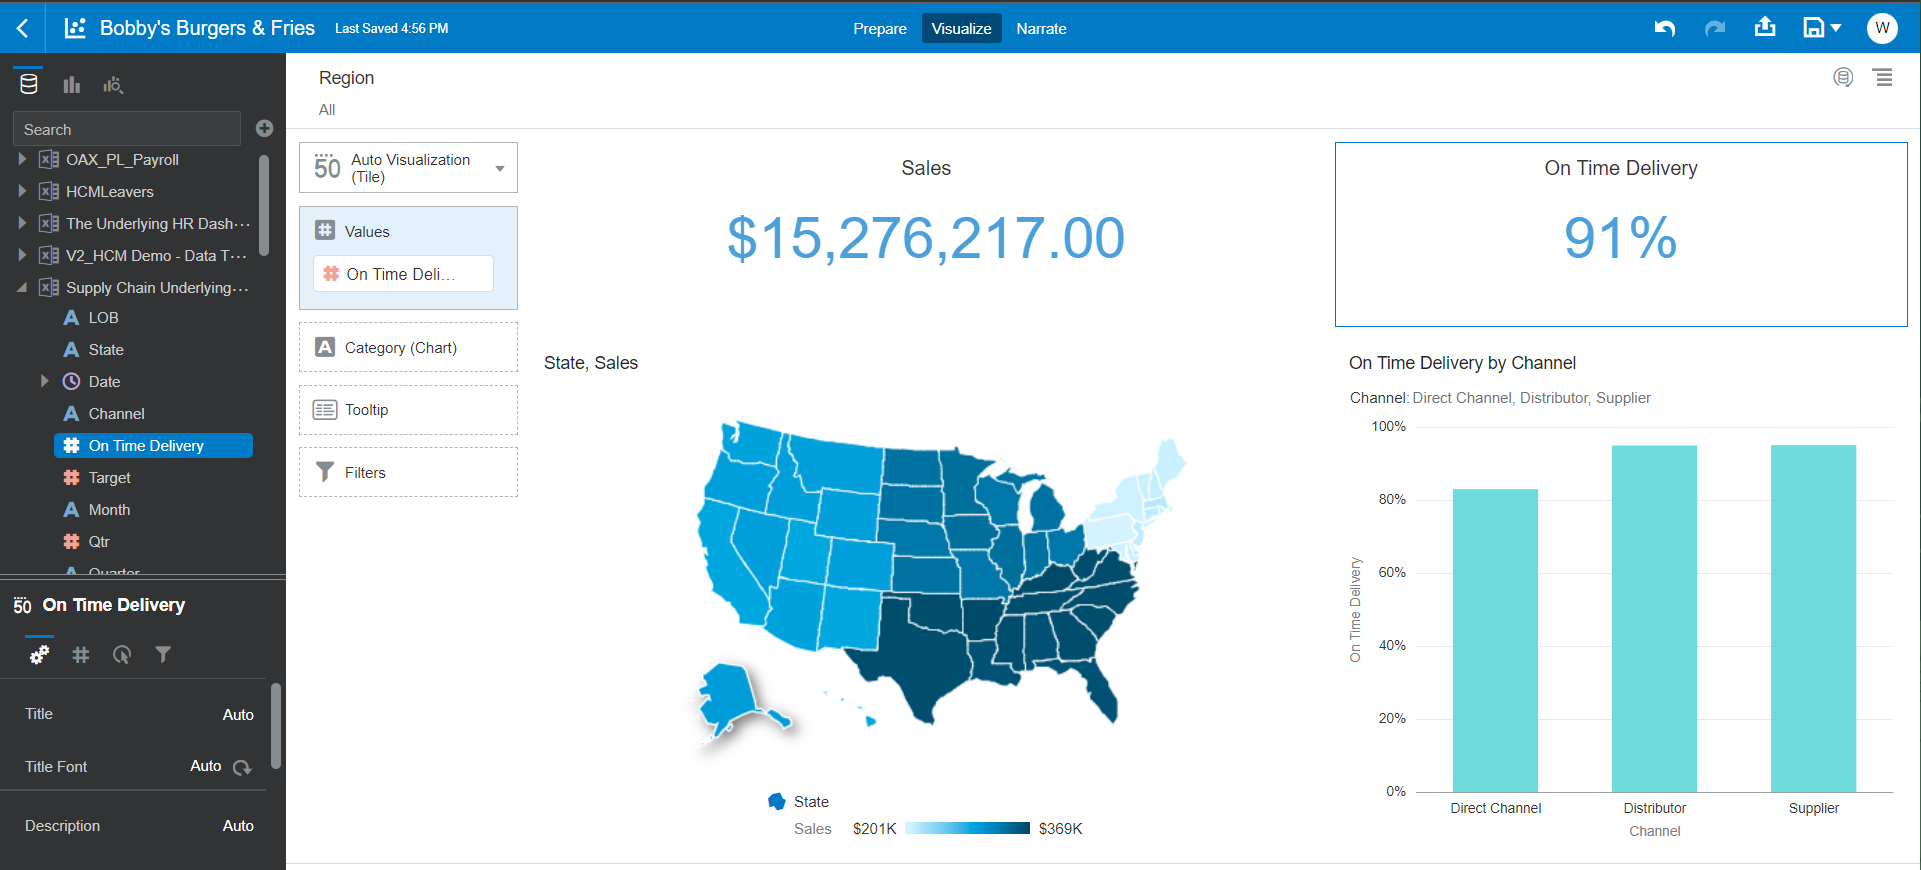
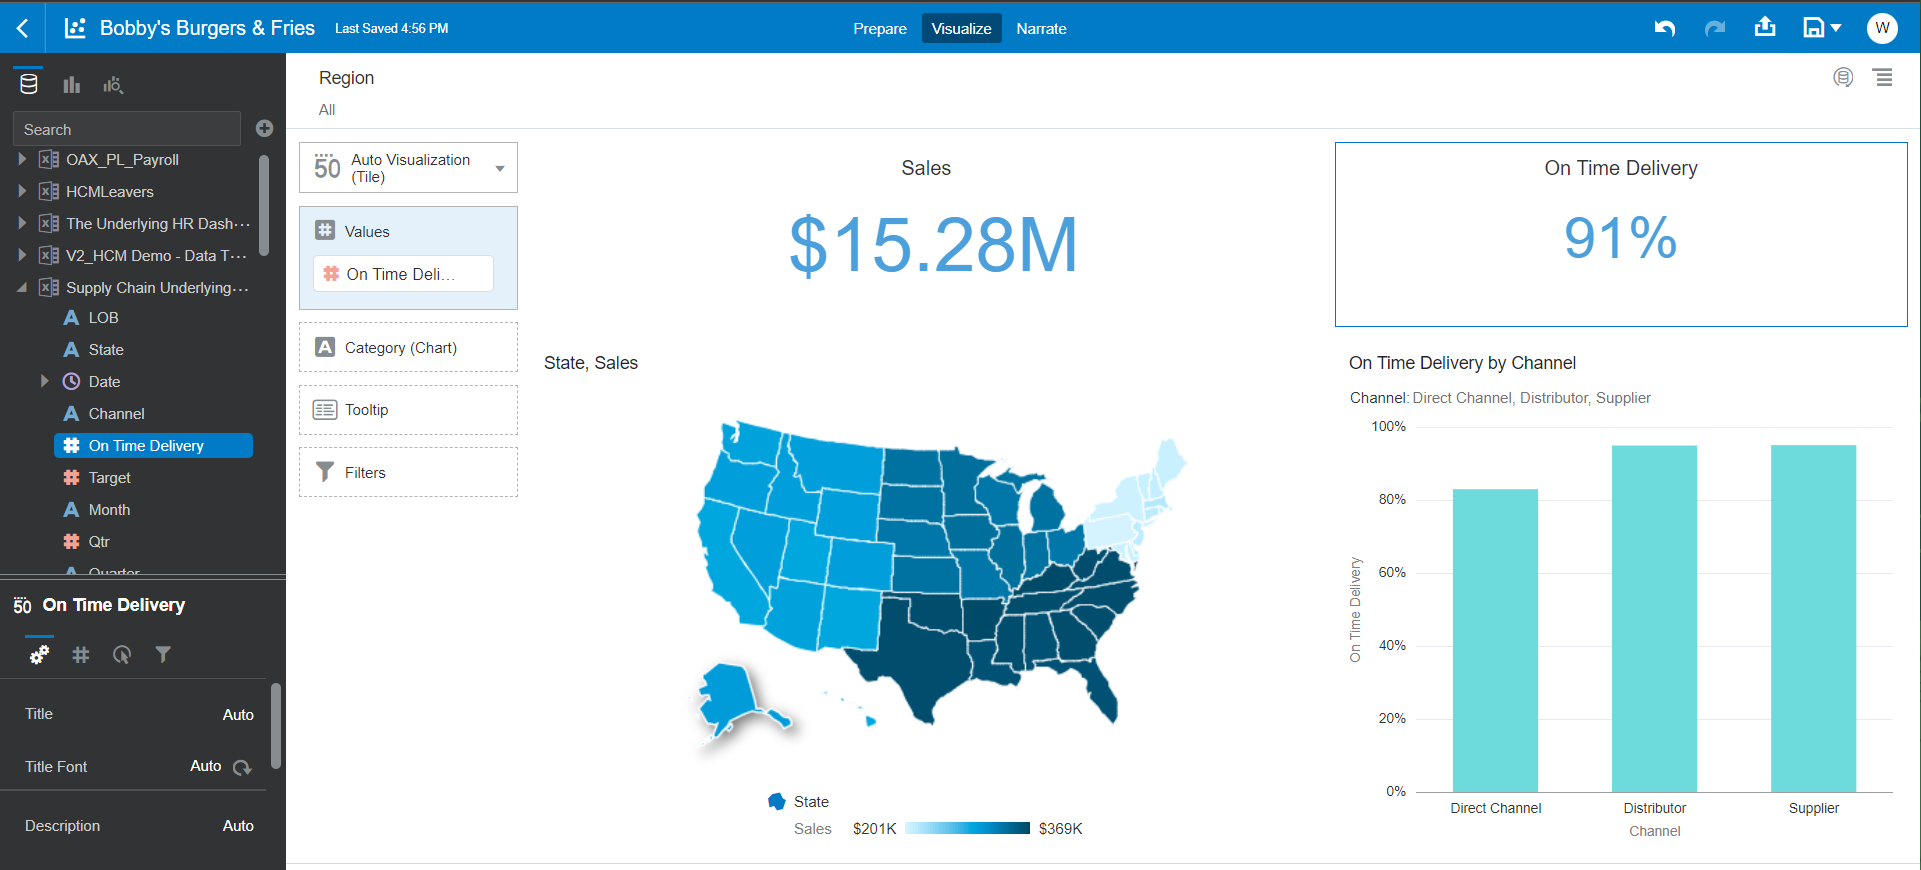
kl pic format updates

Changed region(s): [[0.3748, 0.2483, 0.5934, 0.3103]]

diff --git a/Retail/create-main-dashboard/create-main-dashboard.md b/Retail/create-main-dashboard/create-main-dashboard.md
@@ -79,13 +79,18 @@ Right away we can see that the north east region sales is severely behind the re
     ![drag and drop sales above visual](./images/drag-and-drop-sales.png " ")
     ![sales card](./images/sales-card.png " ")
 
-6. Now we are going to create our second card. Open the Supply Chain Underlying Dashboard Data and
+6. Now we are going to format our value using the properties box (in the bottom right of the screen). **Select** select the Values '#' tab and we are going to change from auto to currency as well as turn on abbreviate by selecting it.
+
+  ![formatting the currency](./images/formatting-the-currency.png " ")
+  ![abbreviate the currency](./images/abbreviate-the-currency.png " ")
+
+7. Now we are going to create our second card. Open the Supply Chain Underlying Dashboard Data and
     - **Control select** "Supply Chain Underlying Dashboard Data - On Time Delivery" and "Supply Chain Underlying Dashboard Data - Channel".
     - **Right click**, select "Pick Visualization"
 
     ![create supply chain card](./images/supply-chain-card.png " ")
 
-7. **Select** "Stacked Bar".
+8. **Select** "Stacked Bar".
 
     ![pick stacked bar chart](./images/stacked-bar.png " ")
 
@@ -121,7 +126,7 @@ Select "Save" in the top right of the screen to save and update your project.
 
     ![custom calculation](./images/custom-calculation.png " ")
     >*Note: The arguments in our calculation appear as full path names but are shortened when added into the calculation box of OAS. If confused use the picture below to make sure your custom calculation matches.*
-    
+
 15. **Click** Validate. **Click** Save.
 You have successfully created your own custom calculation that can be used like any other metric.
 
@@ -140,6 +145,7 @@ You have successfully created your own custom calculation that can be used like 
 18. Within the properties box (in the bottom right of the screen) select the Values '#' tab and we are going to change the number format to currency.
 
     ![formatting the currency](./images/formatting-the-currency.png " ")
+    ![abbreviate the currency](./images/abbreviate-the-currency.png " ")
 
 19. For our last card we are going to analyze Headcount by Quarter to compare with our Salary & Wage by Quarter analysis.
     - **Control select** 'Underlying HR Dashboard copy - Date' and 'Underlying HR Dashboard copy - Headcount'

diff --git a/Retail/channel-sales/channel-sales.md b/Retail/channel-sales/channel-sales.md
@@ -127,6 +127,6 @@ This lab assumes you have:
 
 ## Acknowledgements
 
-  * **Author** - Luke Wheless
-  * **Contributers** - Killian Lynch, Nagwang Gyamtso, & Akash Dharamshi
-  * **Last Updated** - 2/10/22
+* **Authors** - Killian Lynch, Nagwang Gyamtso, Luke Wheless, Akash Dharamshi, Solution Engineer Specialist Hub Team, NA Technology
+* **Contributors** - Luke Wheless, Solution Engineer Specialist Hub Team, NA Technology
+* **Last Updated By/Date** - Luke Wheless, Solution Engineer Specialist Hub Team, NA Technology, March 2022
